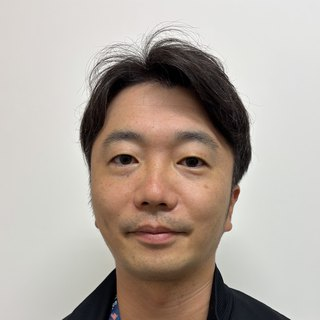
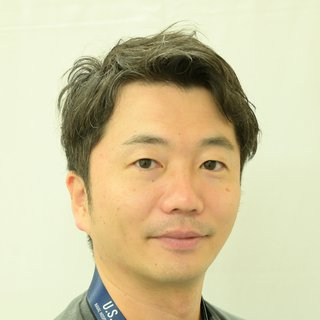
酒井の顔写真を差し替え、石島・仲田・岩永の顔写真を追加

diff --git a/index.html b/index.html
@@ -586,7 +586,7 @@
           <div class="staff-spec">外科専門医</div>
         </div>
         <div class="staff-card reveal">
-          <div class="staff-photo"><div class="img-placeholder" style="width:80px;height:80px;border-radius:50%;"><span class="staff-avatar-initial">医</span></div></div>
+          <div class="staff-photo"><img class="staff-img" src="media/photos/ishijima-yuji.jpg" alt="石島 佑治 フェロー" width="320" height="320" loading="lazy"></div>
           <div class="staff-name">石島 佑治</div>
           <div class="staff-role">フェロー</div>
           <div class="staff-role-en">Fellow</div>
@@ -600,7 +600,7 @@
           <div class="staff-spec">救急科（兼任）</div>
         </div>
         <div class="staff-card reveal">
-          <div class="staff-photo"><div class="img-placeholder" style="width:80px;height:80px;border-radius:50%;"><span class="staff-avatar-initial">医</span></div></div>
+          <div class="staff-photo"><img class="staff-img" src="media/photos/nakata-sora.jpg" alt="仲田 そら フェロー" width="320" height="320" loading="lazy"></div>
           <div class="staff-name">仲田 そら</div>
           <div class="staff-role">フェロー</div>
           <div class="staff-role-en">Fellow</div>
@@ -618,7 +618,7 @@
       </div>
       <div class="staff-grid">
         <div class="staff-card tier-parttime reveal">
-          <div class="staff-photo"><div class="img-placeholder" style="width:80px;height:80px;border-radius:50%;"><span class="staff-avatar-initial">医</span></div></div>
+          <div class="staff-photo"><img class="staff-img" src="media/photos/iwanaga-wataru.jpg" alt="岩永 航 非常勤医師" width="320" height="320" loading="lazy"></div>
           <div class="staff-name">岩永 航</div>
           <div class="staff-role">非常勤医師</div>
           <div class="staff-role-en">Part-time Physician</div>
